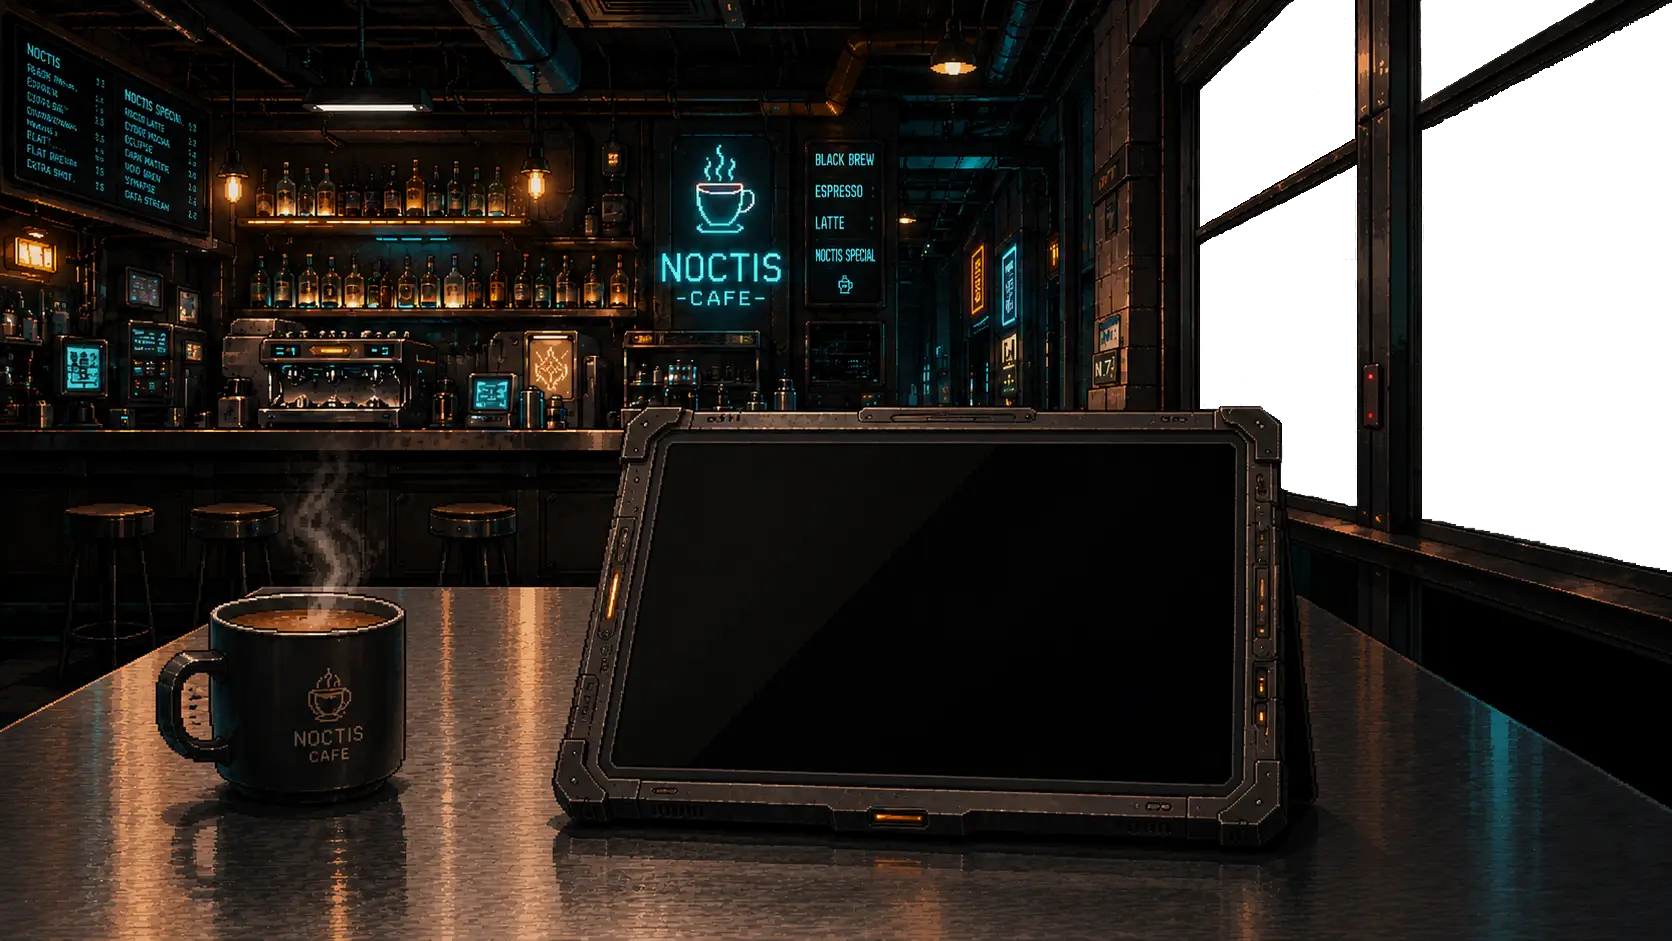
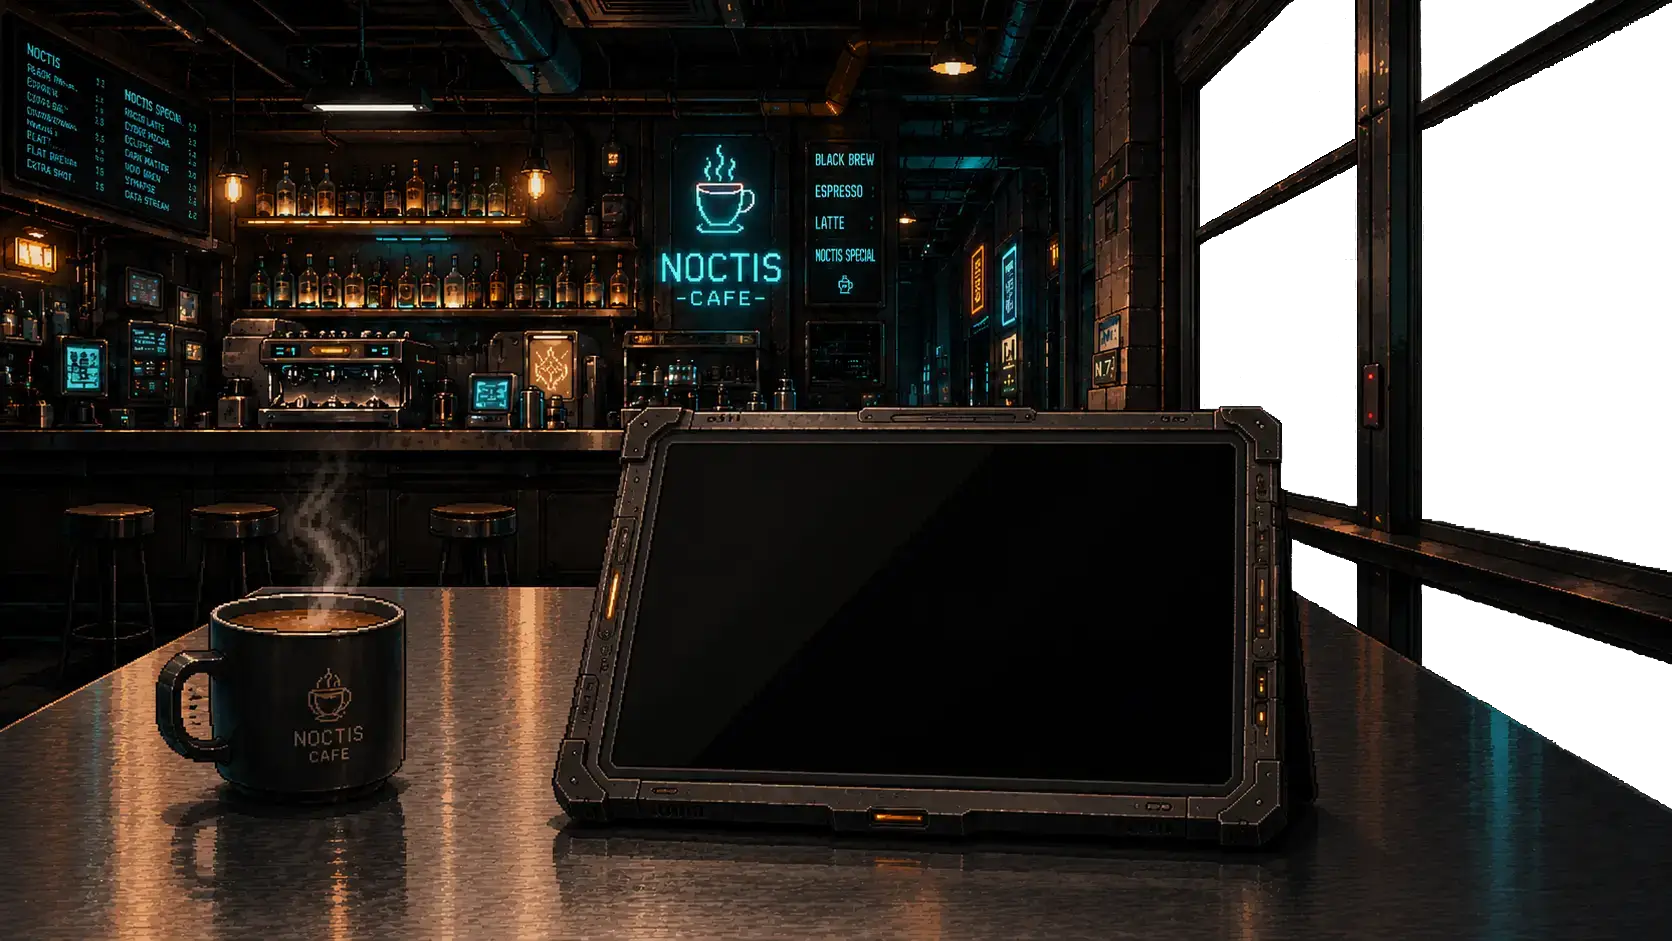
feat(uplink): create uplink section and sky, cloud, airplanes and city

Changed region(s): [[0.7464, 0.5855, 1.0, 0.8629]]

diff --git a/src/components/Uplink/index.tsx b/src/components/Uplink/index.tsx
@@ -1,5 +1,21 @@
 import { useState, useEffect } from "react";
+
+// Imports das imagens de fundo (Cenário do Uplink)
+import bgUplinkSunrise from "../../assets/uplink-image/bg-uplink-sunrise.webp";
+import bgUplinkDay from "../../assets/uplink-image/bg-uplink-day.webp";
+import bgUplinkSunset from "../../assets/uplink-image/bg-uplink-sunset.webp";
 import bgUplinkNight from "../../assets/uplink-image/bg-uplink-night.webp";
+
+// Imports das imagens da cidade
+import cityInDay from "../../assets/workspace-image/city-in-window-day.webp";
+import cityInSunrise from "../../assets/workspace-image/city-in-window-sunrise.webp";
+import cityInSunset from "../../assets/workspace-image/city-in-window-sunset.webp";
+import cityInNight from "../../assets/workspace-image/city-in-window-night.webp";
+
+// Importação dos componentes de ambientação
+import { AeroLayer } from "../AeroLayer";
+import Sky from "../Sky";
+import Clouds from "../Clouds";
 import Rain from "../Rain";
 
 interface UplinkProps {
@@ -22,6 +38,23 @@ export default function Uplink({
     return () => window.removeEventListener("resize", handleResize);
   }, []);
 
+  const getTheme = () => {
+    if (hour >= 5 && hour < 7)
+      return {
+        bg: bgUplinkSunrise,
+        bgCut: bgUplinkSunrise,
+        city: cityInSunrise,
+      };
+    if (hour >= 7 && hour < 16)
+      return { bg: bgUplinkDay, bgCut: bgUplinkDay, city: cityInDay };
+    if (hour >= 16 && hour < 18)
+      return { bg: bgUplinkSunset, bgCut: bgUplinkSunset, city: cityInSunset };
+    return { bg: bgUplinkNight, bgCut: bgUplinkNight, city: cityInNight };
+  };
+
+  const theme = getTheme();
+  const bgImg = isMobile ? theme.bgCut : theme.bg;
+
   return (
     <section
       className="relative w-full overflow-hidden bg-[#05050d] flex flex-col items-center justify-start"
@@ -37,32 +70,48 @@ export default function Uplink({
             "linear-gradient(to bottom, #05050d 0%, transparent 100%)",
         }}
       />
+
       <div className="relative w-full max-w-480 aspect-video flex items-center justify-center">
-        {/* Camada de Background */}
+        {/* 1. Camada de Fundo (Céu, Nuvens, Aeronaves e Cidade - Z-index 0) */}
+        <div className="absolute inset-0 z-0 overflow-hidden">
+          <Sky
+            hour={hour}
+            isRaining={isRaining}
+            rainIntensity={rainIntensity}
+          />
+          <AeroLayer hour={hour} />
+          <Clouds hour={hour} isRaining={isRaining} />
+          <img
+            src={theme.city}
+            className="absolute bottom-0 left-0 w-full h-full object-cover select-none pointer-events-none"
+            style={{ imageRendering: "pixelated" }}
+            alt="City view"
+          />
+          {isRaining && <Rain intensity={rainIntensity} />}
+        </div>
+
+        {/* 2. Camada da Imagem Principal (Cafeteria/Mesa - Z-index 10) */}
         <img
-          src={bgUplinkNight}
-          className="absolute inset-0 w-full h-full object-cover select-none pointer-events-none z-10"
+          src={bgImg}
+          className="relative z-10 w-full h-full object-cover select-none pointer-events-none"
+          alt="Uplink Background"
         />
 
-        {/* Camada de Chuva (Ativada pelo state isRaining) */}
-        {isRaining && (
-          <div className="absolute inset-0 z-5 pointer-events-none">
-            <Rain intensity={rainIntensity} />
-          </div>
-        )}
-
-        {/* Container do Terminal */}
+        {/* 3. Container do Terminal (Interface - Z-index 20) */}
         <div
-          className="absolute z-10 flex items-center justify-center"
+          className="absolute z-20 flex items-center justify-center rounded-xl"
           style={{
-            top: isMobile ? "20%" : "22%",
-            left: isMobile ? "10%" : "25%",
-            width: isMobile ? "80%" : "50%",
-            height: isMobile ? "50%" : "55%",
-            transform: "perspective(1000px) rotateX(2deg)",
+            top: isMobile ? "20%" : "47.2%",
+            left: isMobile ? "10%" : "39.5%",
+            width: isMobile ? "20%" : "34.1%",
+            height: isMobile ? "20%" : "33.5%",
+            perspectiveOrigin: "50% 0%",
+            transformOrigin: "top center",
+            transform:
+              "perspective(1000px) rotateX(15deg) rotateY(-5deg) skewX(-5.7deg) skewY(1.6deg)",
           }}
         >
-          <div className="w-full h-full border border-cyan-500/30 bg-black/70 backdrop-blur-sm p-8 flex flex-col items-center justify-center text-cyan-400 font-mono">
+          <div className="w-full h-full rounded-xl bg-black/70 backdrop-blur-sm p-8 flex flex-col items-center justify-center text-cyan-400 font-mono">
             <h2 className="text-3xl mb-6 tracking-widest text-shadow-glow">
               SYSTEM_UPLINK
             </h2>
@@ -71,7 +120,7 @@ export default function Uplink({
                 _CONNECT
               </button>
               <button className="border border-cyan-700 p-3 hover:bg-cyan-900/40 transition-all">
-                _EXPORT_DATA {hour}
+                {hour.toFixed(2)}
               </button>
             </div>
           </div>